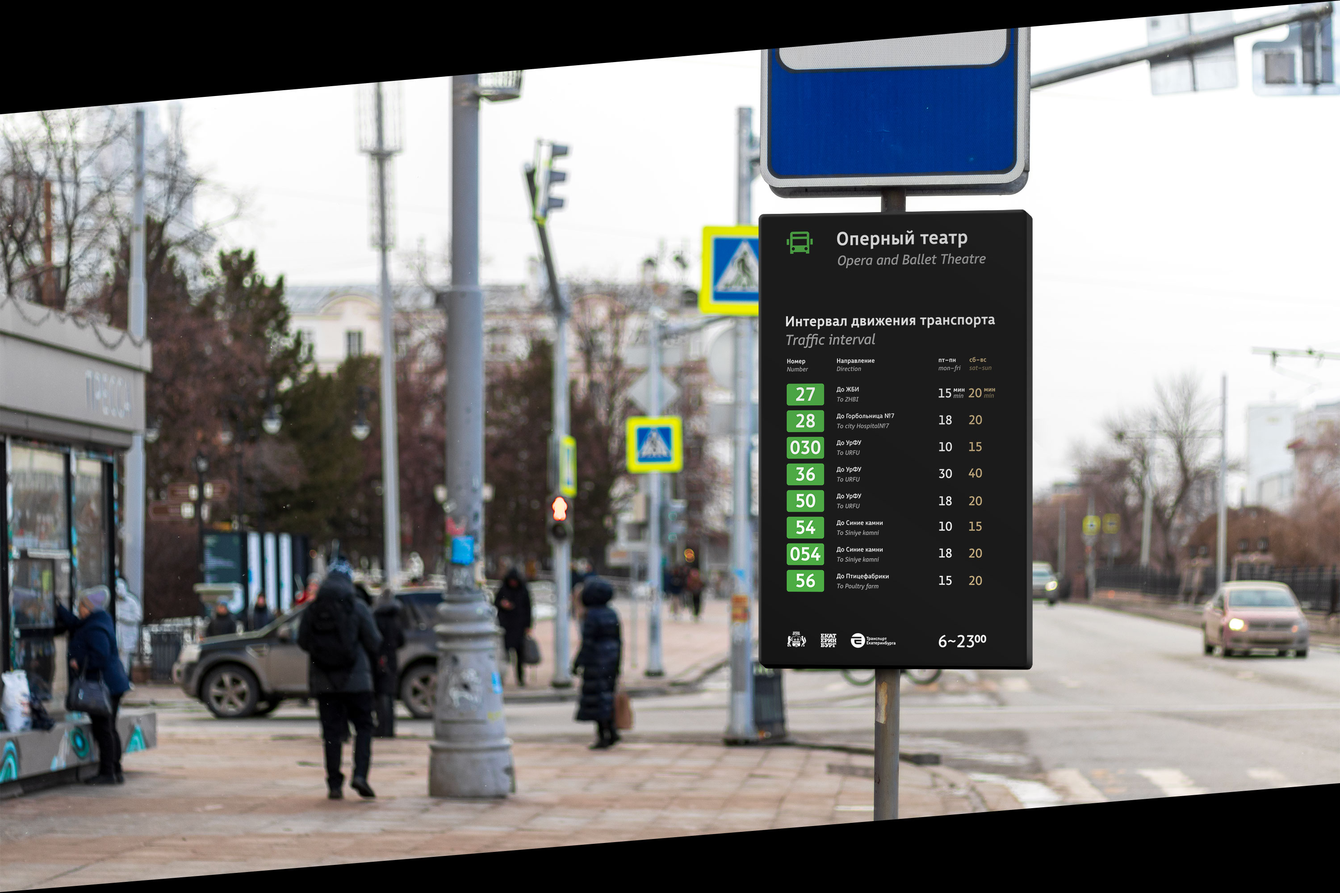
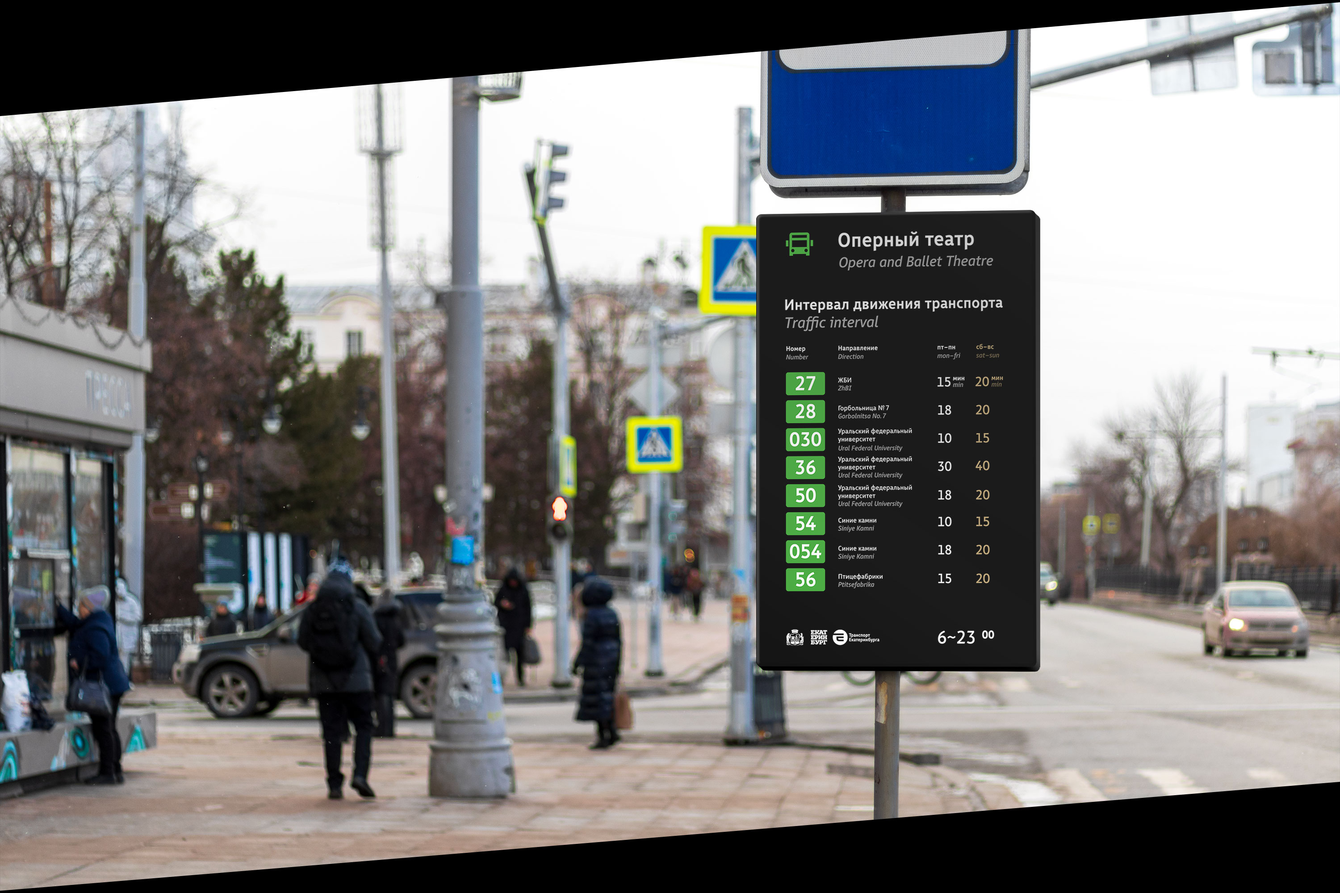
Updated images and roles

Changed region(s): [[0.558, 0.248, 0.775, 0.775], [0.0, 0.992, 0.062, 1.0]]

diff --git a/public/timetables/index.html b/public/timetables/index.html
@@ -1,4 +1,4 @@
-<!DOCTYPE html><html lang="ru"><head><base href="/timetables/"><title>Расписания движения транспорта — Дизайн-код Екатеринбурга</title><meta charset="utf-8"><meta http-equiv="X-UA-Compatible" content="IE=edge,chrome=1"><meta name="viewport" content="width=device-width, initial-scale=1"><meta name="Description" content="Мы разработали новый дизайн расписаний общественного транспорта Екатеринбурга."><meta property="og:image" content="https://ekaterinburg.design/timetables/img/social.jpg"><meta property="og:title" content="Расписания движения транспорта"><meta property="og:description" content="Мы разработали новый дизайн расписаний общественного транспорта Екатеринбурга."><meta property="og:url" content="https://ekaterinburg.design/timetables/"><meta name="twitter:card" content="summary_large_image"><meta name="twitter:title" content="Расписания движения транспорта"><meta name="twitter:description" content="Мы разработали новый дизайн расписаний общественного транспорта Екатеринбурга."><meta name="twitter:image" content="https://ekaterinburg.design/timetables/img/social.jpg"><meta name="vk:image" content="https://ekaterinburg.design/timetables/img/social.jpg"><link rel="stylesheet" href="/css/style.css"><link rel="stylesheet" href="css/timetables.css"><script async src="https://tally.so/widgets/embed.js"></script></head><body><div id="header-2"><a class="logo-to-main-page" href="https://ekaterinburg.design/"><div class="logo"><img class="lazy" data-src="/img/logo-transparent.svg"/></div><div class="logo-caption"><span>Дизайн-код<br/>Екатеринбурга</span></div></a><div class="social-links"><a class="telegram" target="_blank" href="https://t.me/ekaterinburgdesign"><img class="lazy" data-src="/img/telegram-white.svg"/></a><a class="instagram" target="_blank" href="https://www.instagram.com/ekaterinburg.design/"><img class="lazy" data-src="/img/instagram-white.svg"/></a><a class="vk" target="_blank" href="https://vk.com/ekaterinburg.design"><img class="lazy" data-src="/img/vk-white.svg"/></a><a class="github" target="_blank" href="https://github.com/ekaterinburgdev"><img class="lazy" data-src="/img/github-white.svg"/></a><a class="youtube" target="_blank" href="https://www.youtube.com/c/ekaterinburgdesign"><img class="lazy" data-src="/img/youtube-white.svg"/></a><a class="zen" target="_blank" href="https://zen.yandex.ru/ekaterinburgdesign"><img class="lazy" data-src="/img/zen-white.svg"/></a><a class="behance" target="_blank" href="https://www.behance.net/ekaterinburgdesign"><img class="lazy" data-src="/img/behance-white.svg"/></a><a class="fb" target="_blank" href="https://www.facebook.com/ekaterinburg.design"><img class="lazy" data-src="/img/fb-white.svg"/></a><a class="mail-btn" target="_blank" href="https://tally.so#tally-open=nGe77O&amp;tally-width=500&amp;tally-overlay=1&amp;tally-emoji-animation=none"><span>Заказать дизайн</span></a></div></div><div id="stuff"><div id="cover"><img class="lazy" id="10" data-src="img/10.jpg"/></div><div id="story"><div class="flex"><div class="col1"></div><div class="col6"><h1 class="main-headline">Расписания общественного транспорта</h1></div></div><div class="flex"><div class="col2"></div><div class="col4"><p class="main-text first no-hyphen">Мы разработали новый дизайн расписаний общественного транспорта. </p></div></div><div class="flex no-padding no-margin-img"><div class="col8 max-width max-height"><div class="image-20"><img class="lazy" id="20" data-src="img/20.svg"/></div></div></div><div class="flex"><div class="col2"></div><div class="col4"><p class="text-xl">Старыми расписаниями из-за обилия цифр пользоваться было, мягко говоря, трудновато. Чтобы разобраться, с каким интервалом ходит конкретный маршрут, приходилось решать головоломки. В результате пассажиры редко ими пользовались.</p><p class="text-xl">Мы пересмотрели подход к дизайну расписаний — решили старые проблемы и внедрили дизайн-код города.</p></div></div><div class="flex no-padding no-margin-img"><div class="col8 max-width max-height"><div class="image-30"><img class="lazy" id="30" data-src="img/30.svg"/></div></div></div><div class="flex"><div class="col2"></div><div class="col4"><p class="text-xl">Сделали информацию максимально удобной. Наконец-то всё стало понятно!</p></div></div><div class="flex no-padding no-margin-img"><div class="col8 max-width max-height"><img class="lazy" id="40" data-src="img/40.jpg"/></div></div><div class="flex"><div class="col2"></div><div class="col4"><p class="text-xl">Оставили только важную информацию и переработали её так, чтобы она была компактной и легко читаемой. Вместо сложных интервалов и таблиц мы оставили только по два числа — средний интервал в будни и выходные для каждого маршрута.</p><p class="text-xl">Выделили ключевые элементы в расписании — название остановки, номера маршрутов и вид транспорта. У каждого маршрута указаны конечные остановки.</p></div></div><div class="flex no-padding no-margin-img"><div class="col8 max-width max-height"><img class="lazy" id="60" data-src="img/60.jpg"/><div class="image-65"><img class="lazy" id="65" data-src="img/65.svg"/></div><img class="lazy" id="50" data-src="img/50.jpg"/></div></div><div class="flex"><div class="col2"></div><div class="col4"><p class="text-xl">Ввели цветовое кодирование, чтобы было чётко видно, какой транспорт ходит через остановку и по каким маршрутам.</p></div></div><div class="flex no-padding no-margin-img"><div class="col2"></div><div class="col4 max-width max-height"><div class="image-70"><img class="lazy" id="70" data-src="img/70.svg"/></div></div></div><div class="flex"><div class="col2"></div><div class="col4"><p class="text-xl">Фон расписания сделали чёрным, чтобы сохранить единый стиль с навигацией.</p></div></div><div class="flex no-padding no-margin-img"><div class="col8 max-width max-height"><img class="lazy" id="80" data-src="img/80.jpg"/></div></div><div class="flex"><div class="col2"></div><div class="col4"><p class="text-xl">Чёрный фон повышает читаемость. Даже во время метели информация на табличках хорошо воспринимается. Это особенно важно для Урала, где зима длится с ноября по март, а на улице снег, дождь и плохая видимость. Кроме того, такие расписания отлично дружат с расписанием на интерактивных экранах.</p></div></div><div class="flex no-padding no-margin-img"><div class="col8 max-width max-height"><img class="lazy" id="90" data-src="img/90.jpg"/><img class="lazy" id="100" data-src="img/100.jpg"/></div></div><div class="flex"><div class="col2"></div><div class="col4"><p class="text-xl">С помощью наших онлайн-генераторов новые расписания будет легко подготовить для всего города.</p><p class="text-xl">Также после транспортной реформы, когда транспорт будет ходить ровно по времени, мы планируем разработать подробные расписания с точностью до минуты.</p><p class="text-xl">Почта для связи: <a class="accent" href="mailto:mail@ekaterinburg.design">mail@ekaterinburg.design</a></p></div></div><div id="roles-wrap"><h3 id="roles-headline">В ролях</h3><div class="images" id="roles"><div class="col1"><img class="userpic" src="/img/roles/masha-g.jpg"/><div class="person"><span>Мария Гундырева</span></div><div class="role">дизайнер</div></div><div class="col1"><img class="userpic" src="/img/roles/pasha-o.jpg"/><div class="person"><a target="_blank" href="mailto:pasha@ekaterinburg.design">Паша Омелёхин</a></div><div class="role">куратор</div></div><div class="col1"><img class="userpic" src="/img/roles/misha-ch.jpg"/><div class="person"><a target="_blank" href="https://www.facebook.com/mchereda">Михаил Череда</a></div><div class="role">советник</div></div><div class="col4 desktop"></div><div class="col1"><a class="transport-link" href="https://transport.ekaterinburg.city/map" target="_blank"><img class="lazy" id="transport-logo" data-src="img/transport-logo.svg"/></a></div></div></div><div id="social-footer"><h3 id="social-footer-headline">Подписывайтесь, чтобы не пропустить новые проекты</h3><div id="social-footer-links"><a class="telegram" target="_blank" href="https://t.me/ekaterinburgdesign"><img class="lazy" data-src="/img/telegram-color.svg"></a><a class="instagram" target="_blank" href="https://www.instagram.com/ekaterinburg.design/"><img class="lazy" data-src="/img/instagram-color.svg"></a><a class="vk" target="_blank" href="https://vk.com/ekaterinburg.design"><img class="lazy" data-src="/img/vk-color.svg"></a><a class="github" target="_blank" href="https://github.com/ekaterinburgdev/"><img class="lazy" data-src="/img/github-color.svg"></a><a class="youtube" target="_blank" href="https://www.youtube.com/c/ekaterinburgdesign"><img class="lazy" data-src="/img/youtube-color.svg"></a><a class="zen" target="_blank" href="https://zen.yandex.ru/ekaterinburgdesign"><img class="lazy" data-src="/img/zen-color.svg"></a><a class="behance" target="_blank" href="https://www.behance.net/ekaterinburgdesign"><img class="lazy" data-src="/img/behance-color.svg"></a><a class="fb" target="_blank" href="https://www.facebook.com/ekaterinburg.design"><img class="lazy" data-src="/img/fb-color.svg"></a></div></div></div></div><script src="https://cdn.jsdelivr.net/npm/vanilla-lazyload@latest/dist/lazyload.min.js"></script><script type="text/javascript">var lazyLoadInstance = new LazyLoad({
+<!DOCTYPE html><html lang="ru"><head><base href="/timetables/"><title>Расписания движения транспорта — Дизайн-код Екатеринбурга</title><meta charset="utf-8"><meta http-equiv="X-UA-Compatible" content="IE=edge,chrome=1"><meta name="viewport" content="width=device-width, initial-scale=1"><meta name="Description" content="Мы разработали новый дизайн расписаний общественного транспорта Екатеринбурга."><meta property="og:image" content="https://ekaterinburg.design/timetables/img/social.jpg"><meta property="og:title" content="Расписания движения транспорта"><meta property="og:description" content="Мы разработали новый дизайн расписаний общественного транспорта Екатеринбурга."><meta property="og:url" content="https://ekaterinburg.design/timetables/"><meta name="twitter:card" content="summary_large_image"><meta name="twitter:title" content="Расписания движения транспорта"><meta name="twitter:description" content="Мы разработали новый дизайн расписаний общественного транспорта Екатеринбурга."><meta name="twitter:image" content="https://ekaterinburg.design/timetables/img/social.jpg"><meta name="vk:image" content="https://ekaterinburg.design/timetables/img/social.jpg"><link rel="stylesheet" href="/css/style.css"><link rel="stylesheet" href="css/timetables.css"><script async src="https://tally.so/widgets/embed.js"></script></head><body><div id="header-2"><a class="logo-to-main-page" href="https://ekaterinburg.design/"><div class="logo"><img class="lazy" data-src="/img/logo-transparent.svg"/></div><div class="logo-caption"><span>Дизайн-код<br/>Екатеринбурга</span></div></a><div class="social-links"><a class="telegram" target="_blank" href="https://t.me/ekaterinburgdesign"><img class="lazy" data-src="/img/telegram-white.svg"/></a><a class="instagram" target="_blank" href="https://www.instagram.com/ekaterinburg.design/"><img class="lazy" data-src="/img/instagram-white.svg"/></a><a class="vk" target="_blank" href="https://vk.com/ekaterinburg.design"><img class="lazy" data-src="/img/vk-white.svg"/></a><a class="github" target="_blank" href="https://github.com/ekaterinburgdev"><img class="lazy" data-src="/img/github-white.svg"/></a><a class="youtube" target="_blank" href="https://www.youtube.com/c/ekaterinburgdesign"><img class="lazy" data-src="/img/youtube-white.svg"/></a><a class="zen" target="_blank" href="https://zen.yandex.ru/ekaterinburgdesign"><img class="lazy" data-src="/img/zen-white.svg"/></a><a class="behance" target="_blank" href="https://www.behance.net/ekaterinburgdesign"><img class="lazy" data-src="/img/behance-white.svg"/></a><a class="fb" target="_blank" href="https://www.facebook.com/ekaterinburg.design"><img class="lazy" data-src="/img/fb-white.svg"/></a><a class="mail-btn" target="_blank" href="https://tally.so#tally-open=nGe77O&amp;tally-width=500&amp;tally-overlay=1&amp;tally-emoji-animation=none"><span>Заказать дизайн</span></a></div></div><div id="stuff"><div id="cover"><img class="lazy" id="10" data-src="img/10.jpg"/></div><div id="story"><div class="flex"><div class="col1"></div><div class="col6"><h1 class="main-headline">Расписания общественного транспорта</h1></div></div><div class="flex"><div class="col2"></div><div class="col4"><p class="main-text first no-hyphen">Мы разработали новый дизайн расписаний общественного транспорта. </p></div></div><div class="flex no-padding no-margin-img"><div class="col8 max-width max-height"><div class="image-20"><img class="lazy" id="20" data-src="img/20.svg"/></div></div></div><div class="flex"><div class="col2"></div><div class="col4"><p class="text-xl">Старыми расписаниями из-за обилия цифр пользоваться было, мягко говоря, трудновато. Чтобы разобраться, с каким интервалом ходит конкретный маршрут, приходилось решать головоломки. В результате пассажиры редко ими пользовались.</p><p class="text-xl">Мы пересмотрели подход к дизайну расписаний — решили старые проблемы и внедрили дизайн-код города.</p></div></div><div class="flex no-padding no-margin-img"><div class="col8 max-width max-height"><div class="image-30"><img class="lazy" id="30" data-src="img/30.svg"/></div></div></div><div class="flex"><div class="col2"></div><div class="col4"><p class="text-xl">Сделали информацию максимально удобной. Наконец-то всё стало понятно!</p></div></div><div class="flex no-padding no-margin-img"><div class="col8 max-width max-height"><img class="lazy" id="40" data-src="img/40.jpg"/></div></div><div class="flex"><div class="col2"></div><div class="col4"><p class="text-xl">Оставили только важную информацию и переработали её так, чтобы она была компактной и легко читаемой. Вместо сложных интервалов и таблиц мы оставили только по два числа — средний интервал в будни и выходные для каждого маршрута.</p><p class="text-xl">Выделили ключевые элементы в расписании — название остановки, номера маршрутов и вид транспорта. У каждого маршрута указаны конечные остановки.</p></div></div><div class="flex no-padding no-margin-img"><div class="col8 max-width max-height"><img class="lazy" id="60" data-src="img/60.jpg"/><div class="image-65"><img class="lazy" id="65" data-src="img/65.svg"/></div><img class="lazy" id="50" data-src="img/50.jpg"/></div></div><div class="flex"><div class="col2"></div><div class="col4"><p class="text-xl">Ввели цветовое кодирование, чтобы было чётко видно, какой транспорт ходит через остановку и по каким маршрутам.</p></div></div><div class="flex no-padding no-margin-img"><div class="col2"></div><div class="col4 max-width max-height"><div class="image-70"><img class="lazy" id="70" data-src="img/70.svg"/></div></div></div><div class="flex"><div class="col2"></div><div class="col4"><p class="text-xl">Фон расписания сделали чёрным, чтобы сохранить единый стиль с навигацией.</p></div></div><div class="flex no-padding no-margin-img"><div class="col8 max-width max-height"><img class="lazy" id="80" data-src="img/80.jpg"/></div></div><div class="flex"><div class="col2"></div><div class="col4"><p class="text-xl">Чёрный фон повышает читаемость. Даже во время метели информация на табличках хорошо воспринимается. Это особенно важно для Урала, где зима длится с ноября по март, а на улице снег, дождь и плохая видимость. Кроме того, такие расписания отлично дружат с расписанием на интерактивных экранах.</p></div></div><div class="flex no-padding no-margin-img"><div class="col8 max-width max-height"><img class="lazy" id="90" data-src="img/90.jpg"/><img class="lazy" id="100" data-src="img/100.jpg"/></div></div><div class="flex"><div class="col2"></div><div class="col4"><p class="text-xl">С помощью наших онлайн-генераторов новые расписания будет легко подготовить для всего города.</p><p class="text-xl">Также после транспортной реформы, когда транспорт будет ходить ровно по времени, мы планируем разработать подробные расписания с точностью до минуты.</p><p class="text-xl">Почта для связи: <a class="accent" href="mailto:mail@ekaterinburg.design">mail@ekaterinburg.design</a></p></div></div><div id="roles-wrap"><h3 id="roles-headline">В ролях</h3><div class="images" id="roles"><div class="col1"><img class="userpic" src="/img/roles/masha-g.jpg"/><div class="person"><a target="_blank" href="https://instagram.com/gyndureva">Мария Гундырева</a></div><div class="role">дизайнер</div></div><div class="col1"><img class="userpic" src="/img/roles/pasha-o.jpg"/><div class="person"><a target="_blank" href="https://bento.me/omelekhin">Паша Омелёхин</a></div><div class="role">куратор</div></div><div class="col1"><img class="userpic" src="/img/roles/misha-ch.jpg"/><div class="person"><a target="_blank" href="https://www.facebook.com/mchereda">Михаил Череда</a></div><div class="role">советник</div></div><div class="col1"><img class="userpic" src="/img/roles/sasha-ya.jpg"/><div class="person"><a target="_blank" href="https://instagram.com/alexandr_yang">Александр Янг</a></div><div class="role">фотограф</div></div><div class="col3 desktop"></div><div class="col1"><a class="transport-link" href="https://transport.ekaterinburg.city/map" target="_blank"><img class="lazy" id="transport-logo" data-src="img/transport-logo.svg"/></a></div></div></div><div id="social-footer"><h3 id="social-footer-headline">Подписывайтесь, чтобы не пропустить новые проекты</h3><div id="social-footer-links"><a class="telegram" target="_blank" href="https://t.me/ekaterinburgdesign"><img class="lazy" data-src="/img/telegram-color.svg"></a><a class="instagram" target="_blank" href="https://www.instagram.com/ekaterinburg.design/"><img class="lazy" data-src="/img/instagram-color.svg"></a><a class="vk" target="_blank" href="https://vk.com/ekaterinburg.design"><img class="lazy" data-src="/img/vk-color.svg"></a><a class="github" target="_blank" href="https://github.com/ekaterinburgdev/"><img class="lazy" data-src="/img/github-color.svg"></a><a class="youtube" target="_blank" href="https://www.youtube.com/c/ekaterinburgdesign"><img class="lazy" data-src="/img/youtube-color.svg"></a><a class="zen" target="_blank" href="https://zen.yandex.ru/ekaterinburgdesign"><img class="lazy" data-src="/img/zen-color.svg"></a><a class="behance" target="_blank" href="https://www.behance.net/ekaterinburgdesign"><img class="lazy" data-src="/img/behance-color.svg"></a><a class="fb" target="_blank" href="https://www.facebook.com/ekaterinburg.design"><img class="lazy" data-src="/img/fb-color.svg"></a></div></div></div></div><script src="https://cdn.jsdelivr.net/npm/vanilla-lazyload@latest/dist/lazyload.min.js"></script><script type="text/javascript">var lazyLoadInstance = new LazyLoad({
 	elements_selector: ".lazy"
 });
 if (lazyLoadInstance) {
